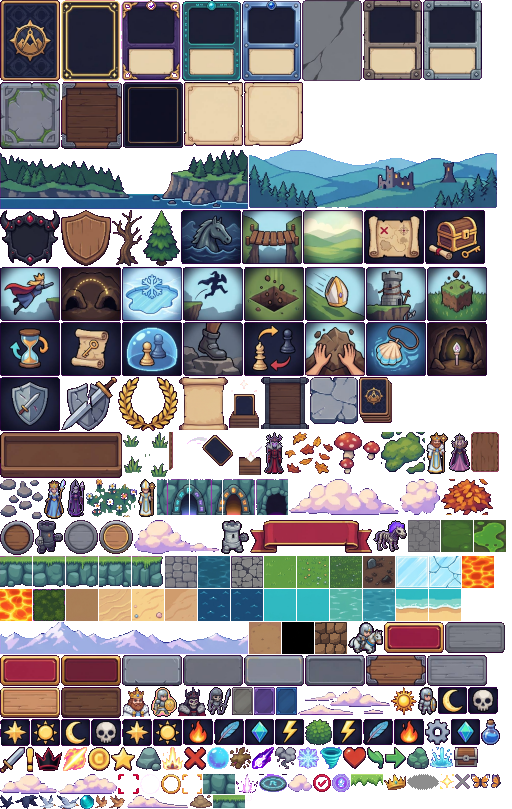
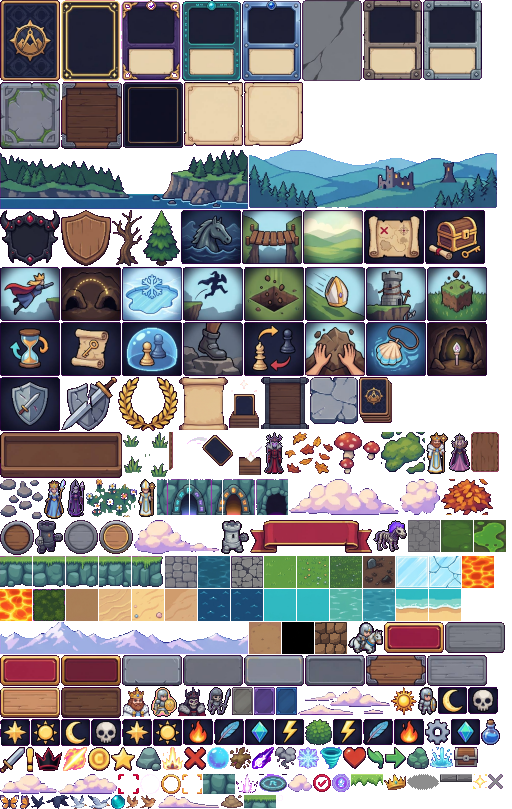
Stone rims on board squares; grass lips match their grass
Board squares get a new generated cut-stone rim instead of the grass lip,
and background grass lips are tinted to each grass tile's average colour
so the overhang matches the surface.

Changed region(s): [[0.0, 0.958, 0.5625, 1.0], [0.8438, 0.958, 1.0, 0.9889]]

diff --git a/crates/game/src/board_view.rs b/crates/game/src/board_view.rs
@@ -701,11 +701,12 @@ fn rock_wall(q: &mut Quads, atlas: &Atlas, a: Vec3, b: Vec3, u: (f32, f32), lo: 
     }
 }
 
-/// The grass lip hanging over a cliff edge, just outside the wall.
+/// The lip (grass or stone, per `sprite`) hanging over a cliff edge, just outside the wall.
 #[allow(clippy::too_many_arguments)]
 fn lip_strip(
     q: &mut Quads,
     atlas: &Atlas,
+    sprite: &str,
     a: Vec3,
     b: Vec3,
     u: (f32, f32),
@@ -713,7 +714,7 @@ fn lip_strip(
     top_y: f32,
     tint: Color,
 ) {
-    let uv = atlas.uv("grass_lip");
+    let uv = atlas.uv(sprite);
     let hi = top_y - CUSHION * 0.3;
     let bottom = (top_y - CUSHION - LIP_HANG).max(lo + 0.02);
     if hi <= bottom {
@@ -729,7 +730,7 @@ fn lip_strip(
 
 /// Cliff walls, rounded corners and grass lips around one column.
 /// `los[i]` is the ground height beyond side `i` (north, east, south, west); walls are
-/// drawn where it is below the top. `lip` adds the grass overhang on dropping sides.
+/// drawn where it is below the top. `lip` (sprite, tint) adds an overhang on dropping sides.
 #[allow(clippy::too_many_arguments)]
 pub(crate) fn rim(
     solid: &mut Quads,
@@ -739,7 +740,7 @@ pub(crate) fn rim(
     drops: [bool; 4],
     los: [f32; 4],
     tints: [Color; 4],
-    lip: Option<Color>,
+    lip: Option<(&str, Color)>,
 ) {
     let r = CUSHION;
     let c = Vec2::new(top.x, top.z);
@@ -764,9 +765,9 @@ pub(crate) fn rim(
         let len = (b - a).length();
         let hi = if drops[side] { top.y - r } else { top.y };
         rock_wall(solid, atlas, p3(a), p3(b), (0.0, len), los[side], hi, tints[side]);
-        if let Some(t) = lip.filter(|_| drops[side]) {
+        if let Some((sprite, t)) = lip.filter(|_| drops[side]) {
             let o = n * LIP_OUT;
-            lip_strip(lips, atlas, p3(a + o), p3(b + o), (0.0, len), los[side], top.y, t);
+            lip_strip(lips, atlas, sprite, p3(a + o), p3(b + o), (0.0, len), los[side], top.y, t);
         }
     }
     for (k, &(sx, sz, s1, s2, start)) in CORNERS.iter().enumerate() {
@@ -791,9 +792,19 @@ pub(crate) fn rim(
                 top.y - r,
                 tint,
             );
-            if let Some(t) = lip {
+            if let Some((sprite, t)) = lip {
                 let rr = r + LIP_OUT;
-                lip_strip(lips, atlas, p3(center + d0 * rr), p3(center + d1 * rr), (0.0, seg), lo, top.y, t);
+                lip_strip(
+                    lips,
+                    atlas,
+                    sprite,
+                    p3(center + d0 * rr),
+                    p3(center + d1 * rr),
+                    (0.0, seg),
+                    lo,
+                    top.y,
+                    t,
+                );
             }
         }
     }
@@ -901,7 +912,8 @@ fn spawn_terrain(
         });
         let lift = 0.03 * tile.height as f32;
         let tints = [0.476, 0.504, 0.588, 0.527].map(|s: f32| Color::srgb(s + lift, s + lift, s + lift));
-        let lip = (!tile.is_water()).then(|| Color::srgb(0.62, 0.66, 0.62));
+        // Board squares are cut stone, so their rims are stone too.
+        let lip = (!tile.is_water()).then(|| ("stone_lip", Color::srgb(0.95, 0.93, 0.86)));
         rim(&mut solid, &mut lips, &atlas, top, drops, los, tints, lip);
 
         // Grid lines along square edges and column top rims:

diff --git a/crates/game/src/scenery.rs b/crates/game/src/scenery.rs
@@ -478,11 +478,24 @@ fn rebuild_scenery(
             let drops =
                 [(0, 1), (1, 0), (0, -1), (-1, 0)].map(|(dx, dy)| height_at(cell_at(x + dx, y + dy)) < top_h);
             let mut cushioned = false;
+            let mut lip = None;
 
             match cell {
                 CellType::Grass(_) => {
                     let tile = ["grass_0", "grass_1", "grass_dark", "moss"][hash(x, y, 1) as usize % 4];
                     let grass_tint = Color::srgb(shade * 0.62, shade * 0.70, shade * 0.80);
+                    // The lip art is brighter than the grass tiles; scale it to this tile's
+                    // average colour so the overhang matches the surface.
+                    let [lr, lg, lb] = match tile {
+                        "grass_0" => [0.82, 0.90, 0.82],
+                        "grass_1" => [0.80, 0.87, 0.86],
+                        "grass_dark" => [0.58, 0.63, 0.75],
+                        _ => [0.48, 0.44, 0.52],
+                    };
+                    lip = Some((
+                        "grass_lip",
+                        Color::srgb(shade * 0.62 * lr, shade * 0.70 * lg, shade * 0.80 * lb),
+                    ));
                     if drops.contains(&true) {
                         cushion(&mut solid, top, drops, atlas.uv(tile), grass_tint);
                         cushioned = true;
@@ -541,8 +554,6 @@ fn rebuild_scenery(
             let los = [(0, 1), (1, 0), (0, -1), (-1, 0)].map(|(dx, dy)| height_at(cell_at(x + dx, y + dy)));
             let tints = [0.56, 0.72, 0.84, 0.62].map(|s: f32| Color::srgb(s * 0.62, s * 0.70, s * 0.80));
             let rim_drops = if cushioned { drops } else { [false; 4] };
-            let lip = matches!(cell, CellType::Grass(_))
-                .then(|| Color::srgb(shade * 0.62, shade * 0.70, shade * 0.80));
             rim(&mut solid, &mut decals, &atlas, top, rim_drops, los, tints, lip);
 
             if matches!(cell, CellType::Grass(_)) {

diff --git a/tools/gen_terrain_art.py b/tools/gen_terrain_art.py
@@ -3,6 +3,7 @@
 wall_rock  32×32  chunky rounded boulders for cliff sides; tiles in both directions.
 grass_lip  32×16  a grass overhang with a bumpy, outlined hanging edge; tiles sideways,
                   transparent below the edge.
+stone_lip  32×16  a cut-stone rim for board squares, in the board stone's greys.
 
 Run on its own to write a 8× preview: python tools/gen_terrain_art.py /tmp/art.png
 """
@@ -102,11 +103,40 @@ def grass_lip(w=32, h=16, seed=11):
     return img
 
 
+# Board stone greys, light to dark, and the outline under the rim.
+STONE = [(150, 149, 153), (121, 120, 123), (104, 102, 107), (88, 86, 92)]
+STONE_OUTLINE = (52, 50, 58)
+
+
+def stone_lip(w=32, h=16):
+    """A beveled stone band: light top edge, blocks split by joints, dark underside."""
+    img = np.zeros((h, w, 4), dtype=np.uint8)
+    band = 7
+    for x in range(w):
+        for y in range(band + 1):
+            if y == band:
+                c = STONE_OUTLINE
+            elif y == 0:
+                c = STONE[0]
+            elif y >= band - 2:
+                c = STONE[3]
+            else:
+                c = STONE[1] if (x // 4 + y) % 5 else STONE[2]
+            if x % 16 == 0 and 0 < y < band:
+                c = STONE_OUTLINE
+            elif x % 16 == 1 and 0 < y < band - 1:
+                c = STONE[0]
+            img[y, x, :3] = c
+            img[y, x, 3] = 255
+    return img
+
+
 def terrain_art():
     """Sprites for the atlas: name -> (RGBA uint8 array, anchor)."""
     return {
         "wall_rock": (wall_rock(), (0.5, 0.5)),
         "grass_lip": (grass_lip(), (0.5, 0.5)),
+        "stone_lip": (stone_lip(), (0.5, 0.5)),
     }
 
 
